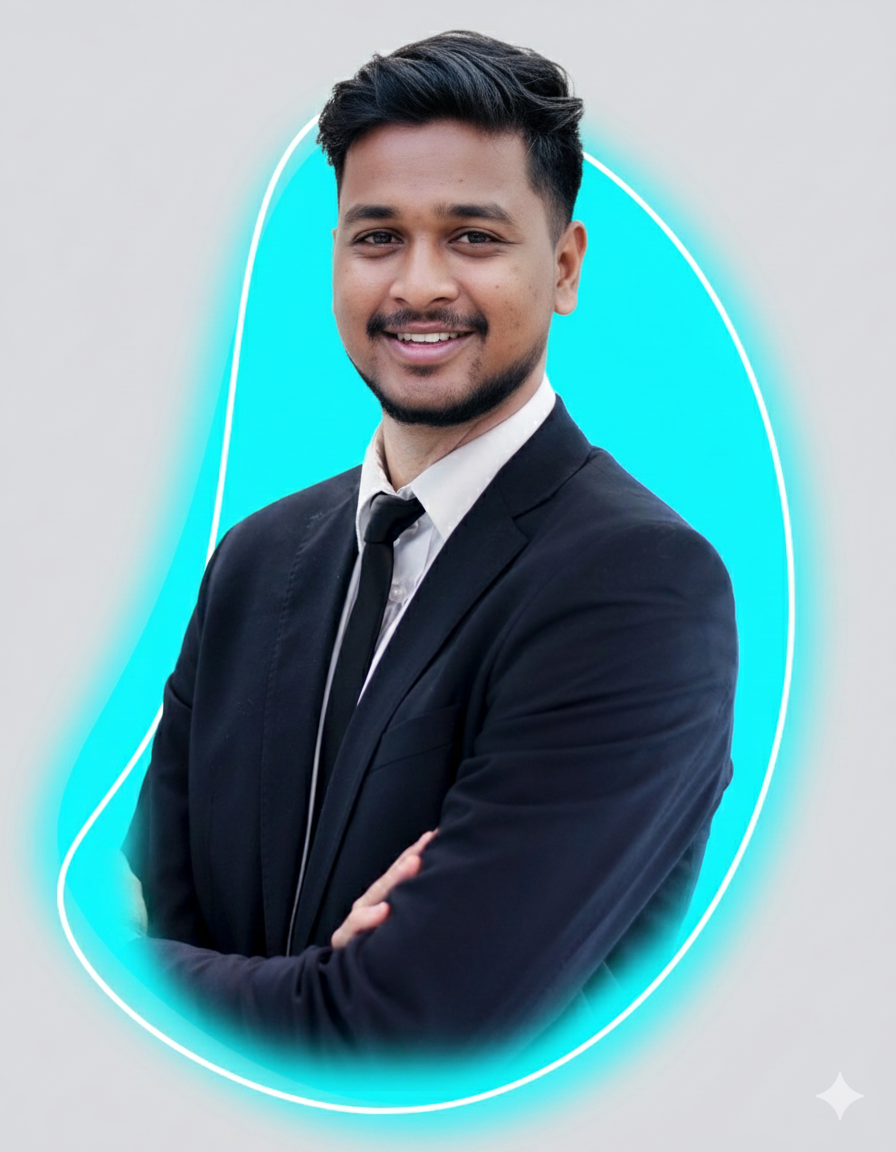
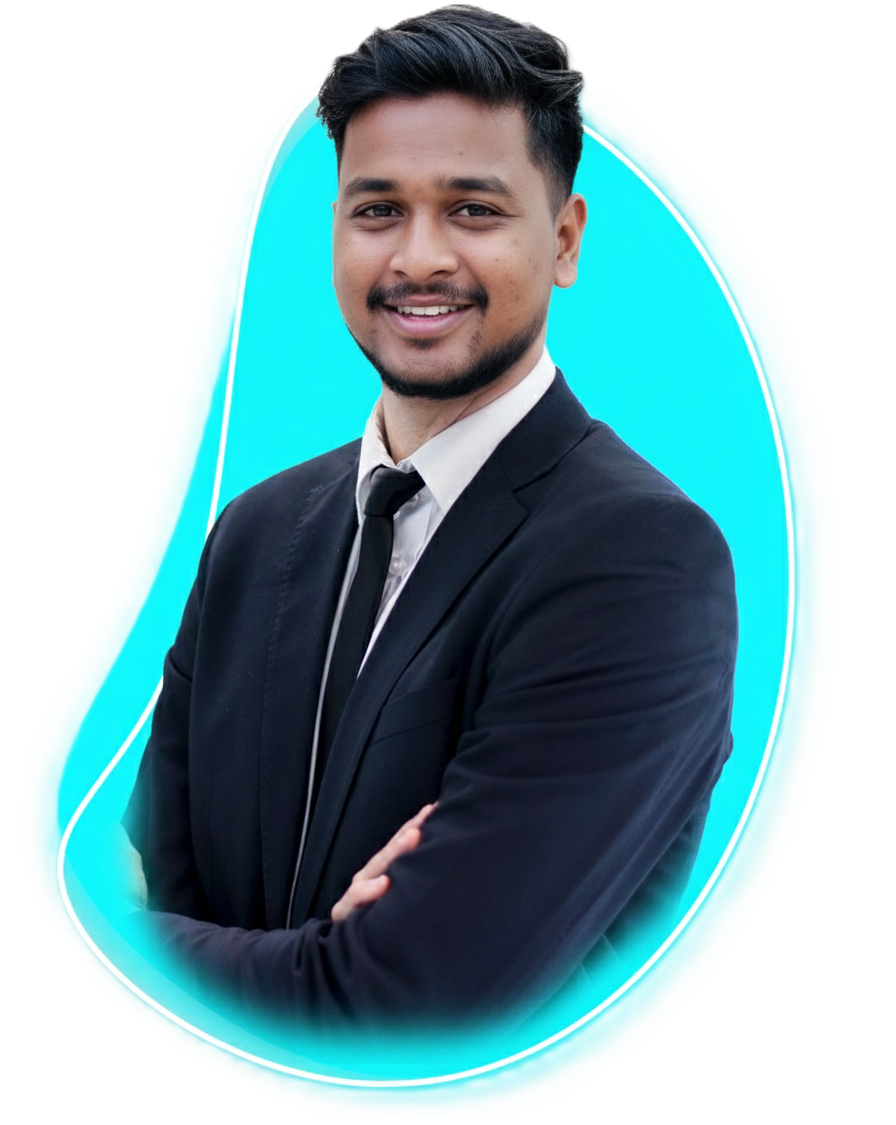
added new photo

diff --git a/index.html b/index.html
@@ -83,7 +83,7 @@
 
     <section class="about" style="--i:2;" id="about">
         <div class="img-about scroll-scale">
-            <img src="Images/removebg-preview.png" alt="">
+            <img src="Images/about-gemini.png" alt="">
             <div class="info-about1">
                 <span>1+</span>
                 <p>Years of Experience</p>
